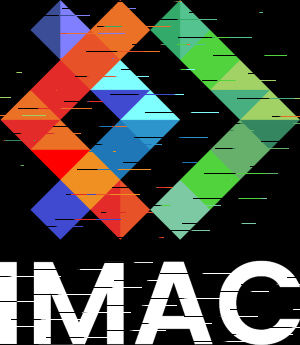
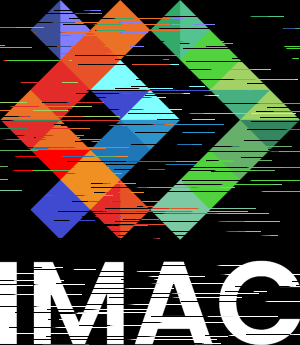
OP pixelSorting

diff --git a/src/main.cpp b/src/main.cpp
@@ -566,12 +566,15 @@ void pixelSorting(sil::Image image)
 
     for (int pxPosition{0}; pxPosition < image.height()*image.width(); pxPosition+= sortedRow + gap)
     {
-        std::sort(image.pixels().begin() + pxPosition, image.pixels().begin() + pxPosition + sortedRow, [](glm::vec3 const& color1, glm::vec3 const& color2)
+        if (pxPosition + sortedRow < image.height()*image.width())
         {
-            return ((color1.r + color1.g + color1.b) / 3) < ((color2.r + color2.g + color2.b) / 3);
-        });
-        int gap = random_int(100, 1000);
-        int sortedRow = random_int(20, 200);
+            std::sort(image.pixels().begin() + pxPosition, image.pixels().begin() + pxPosition + sortedRow, [](glm::vec3 const& color1, glm::vec3 const& color2)
+            {
+                return ((color1.r + color1.g + color1.b) / 3) < ((color2.r + color2.g + color2.b) / 3);
+            });
+        }
+        gap = random_int(100, 1000);
+        sortedRow = random_int(20, 200);
     }
     image.save("output/25_pixelSorting.png");
 }
@@ -699,5 +702,5 @@ int main()
     //    }
     // }
 
-    // pixelSorting(logo);
+    pixelSorting(logo);
 }
